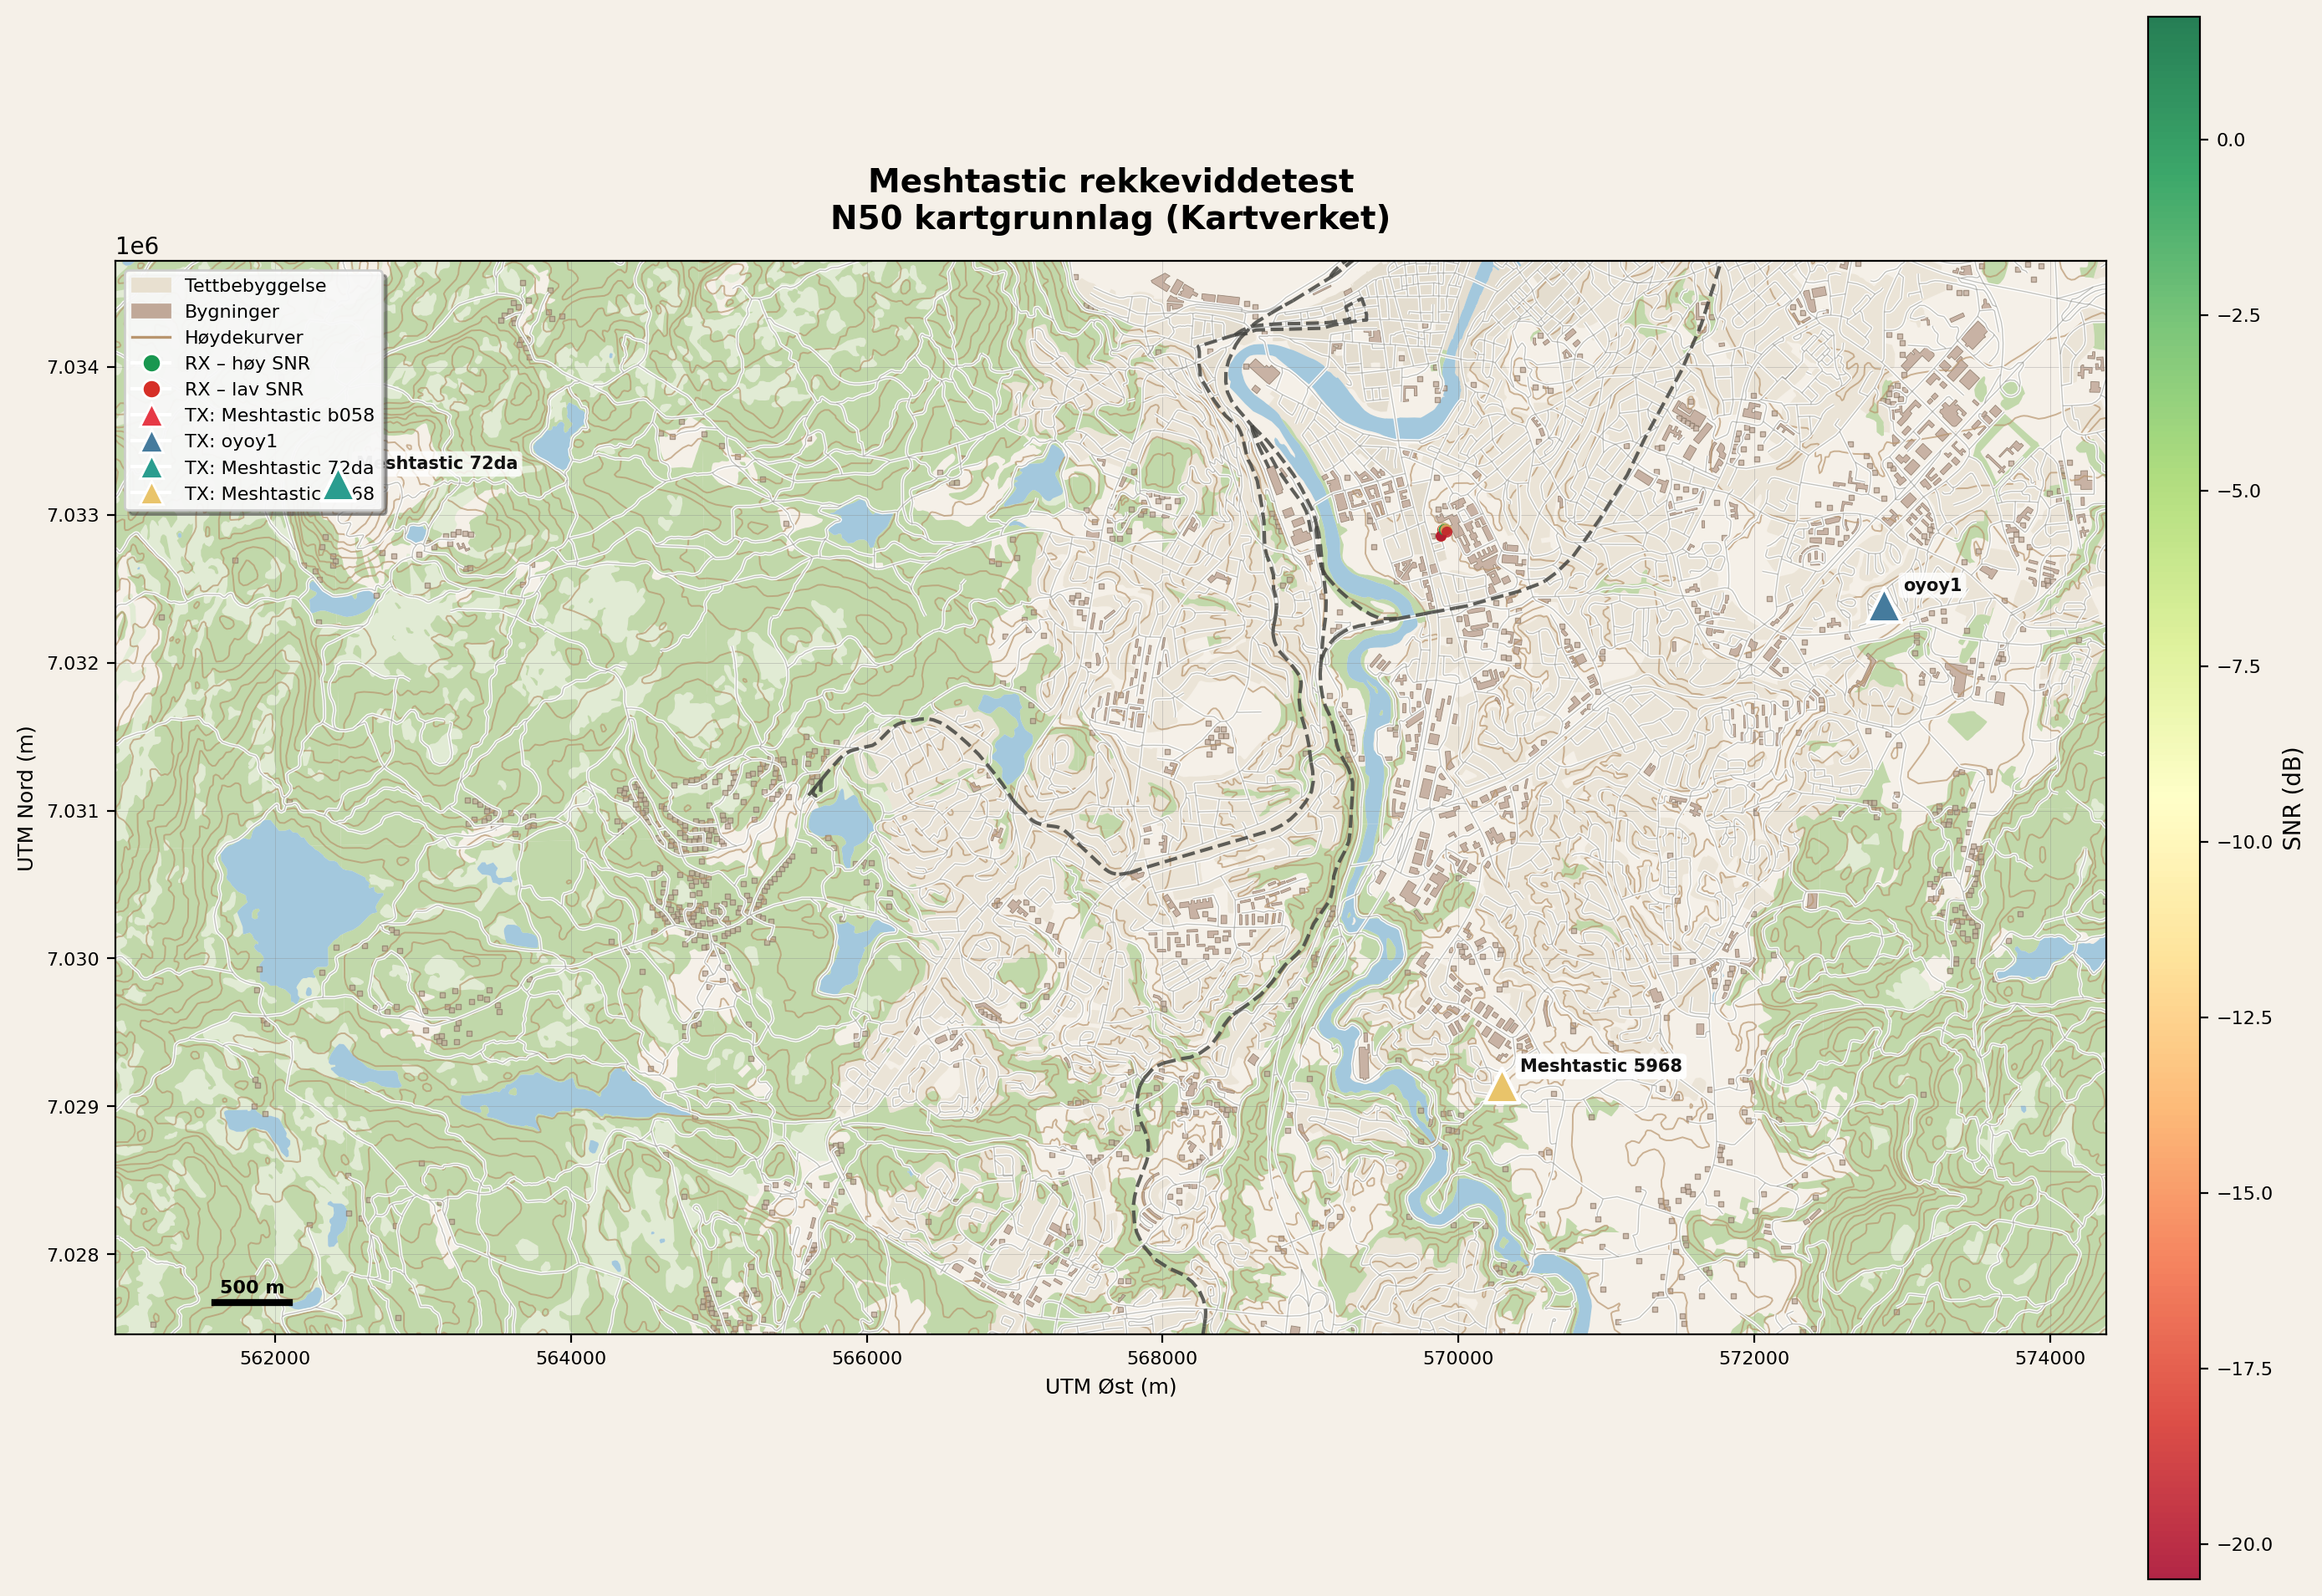
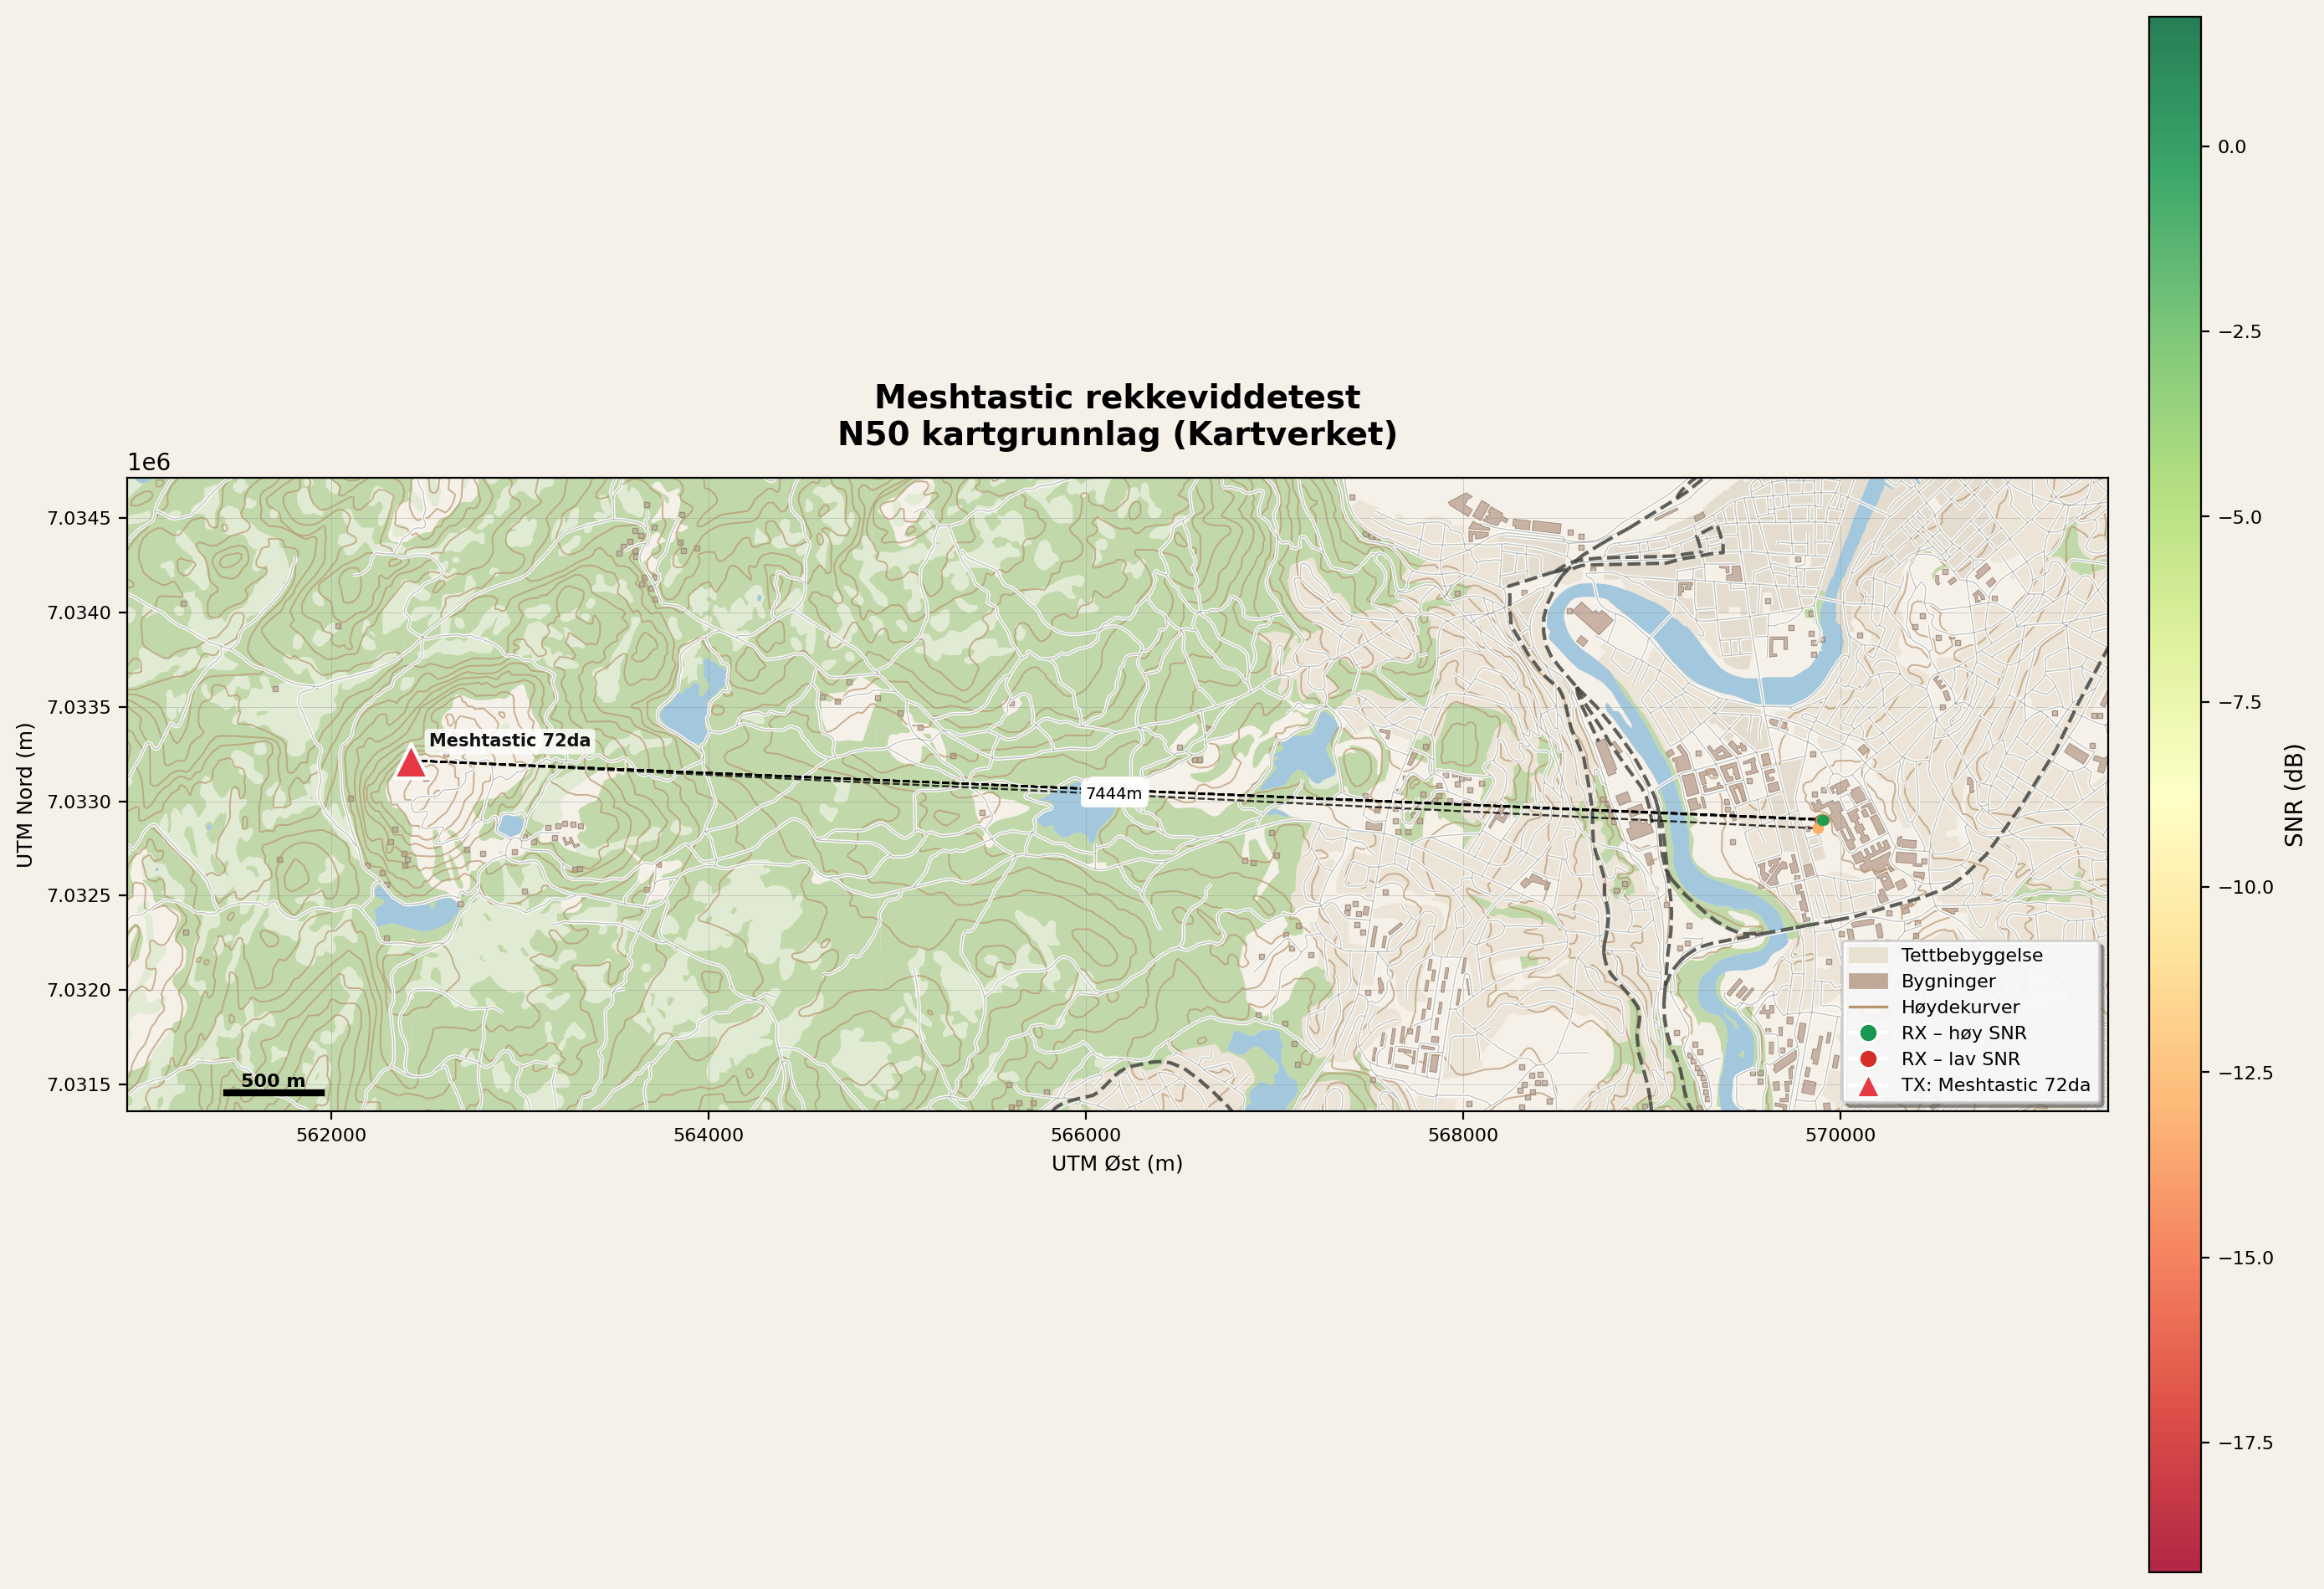
Nye plots

diff --git a/Plots/plot_meshtastic_n50_Filip.py b/Plots/plot_meshtastic_n50_Filip.py
@@ -243,6 +243,34 @@ sc = ax.scatter(
     s=22, zorder=10, alpha=0.85, edgecolors='none'
 )
 
+# --- Dashed lines from TX to RX with distance labels ---
+for _, tx_row in tx_unique.iterrows():
+    tx_name = tx_row['sender name']
+    # Get all RX points for this TX
+    rx_for_tx = rx_df[rx_df['sender name'] == tx_name]
+    
+    for _, rx_row in rx_for_tx.iterrows():
+        # Draw dashed line
+        ax.plot(
+            [tx_row['x'], rx_row['x']],
+            [tx_row['y'], rx_row['y']],
+            'k--', linewidth=0.8, alpha=0.4, zorder=5
+        )
+        
+        # Add distance label at midpoint
+        mid_x = (tx_row['x'] + rx_row['x']) / 2
+        mid_y = (tx_row['y'] + rx_row['y']) / 2
+        distance = rx_row['distance(m)']
+        
+        ax.text(
+            mid_x, mid_y,
+            f"{distance:.0f}m",
+            fontsize=7, ha='center', va='center',
+            bbox=dict(boxstyle='round,pad=0.3', facecolor='white',
+                      alpha=0.7, edgecolor='none'),
+            zorder=15
+        )
+
 # --- TX-punkter (trekanter, én farge per sender) ---
 for i, (_, row) in enumerate(tx_unique.iterrows()):
     farge = TX_FARGER[i % len(TX_FARGER)]
@@ -285,7 +313,7 @@ for i, (_, row) in enumerate(tx_unique.iterrows()):
                label=f"TX: {row['sender name']}")
     )
 
-ax.legend(handles=legend_el, loc='upper left', fontsize=8,
+ax.legend(handles=legend_el, loc='lower right', fontsize=8,
           framealpha=0.92, fancybox=True, shadow=True)
 
 # --- Rutenett og tittel ---